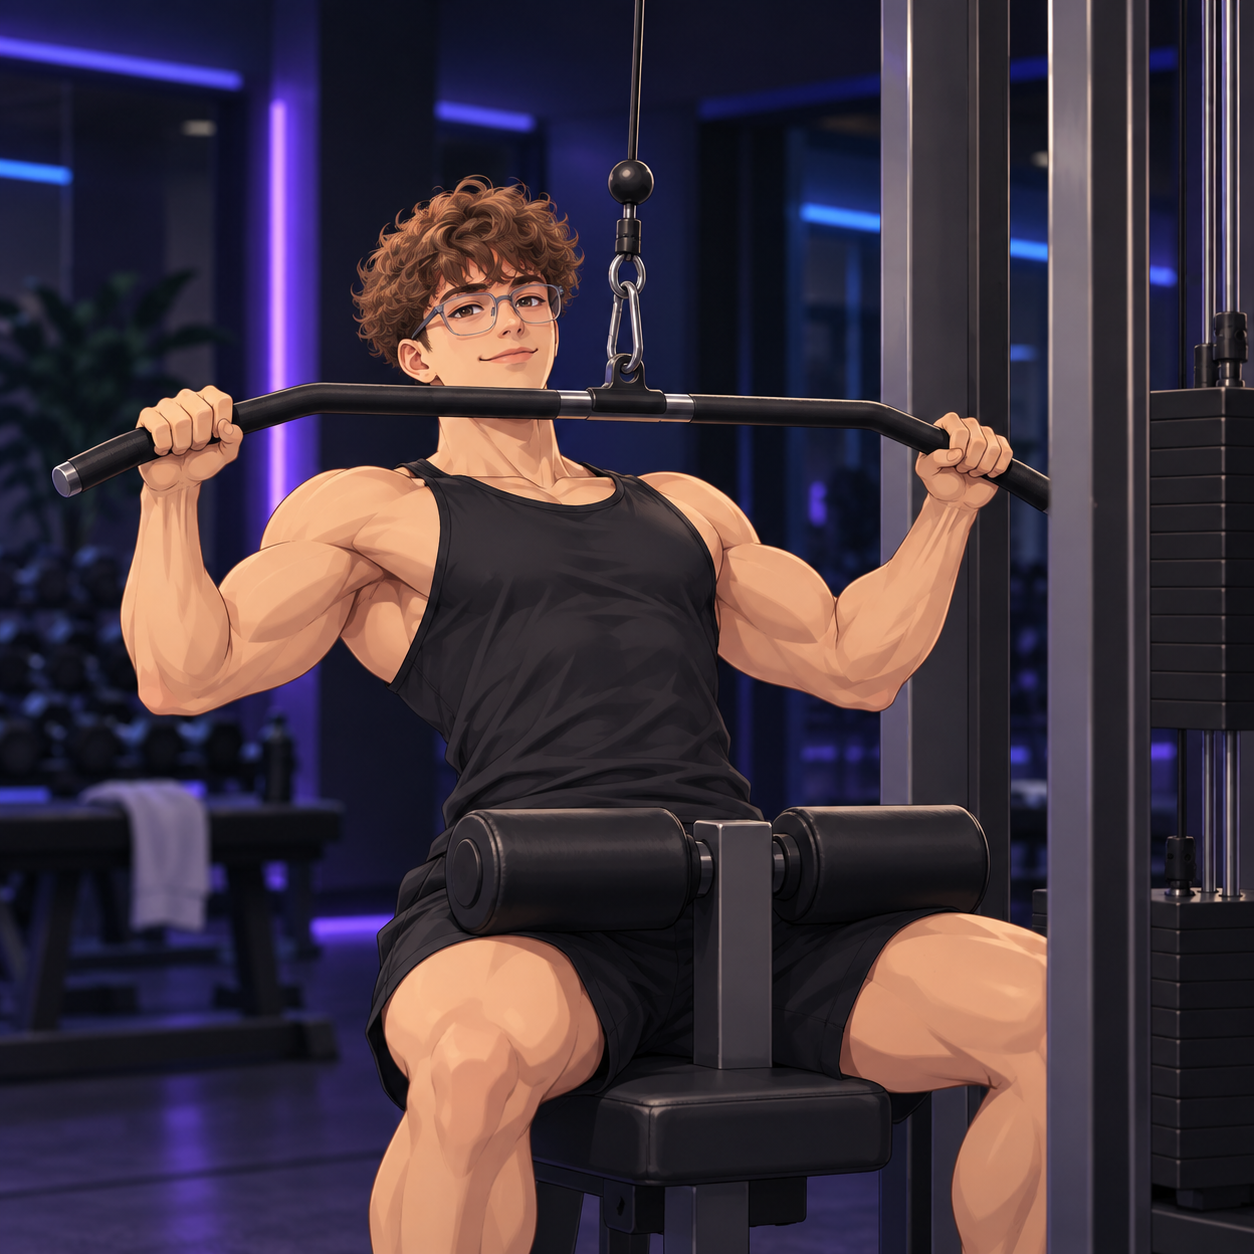
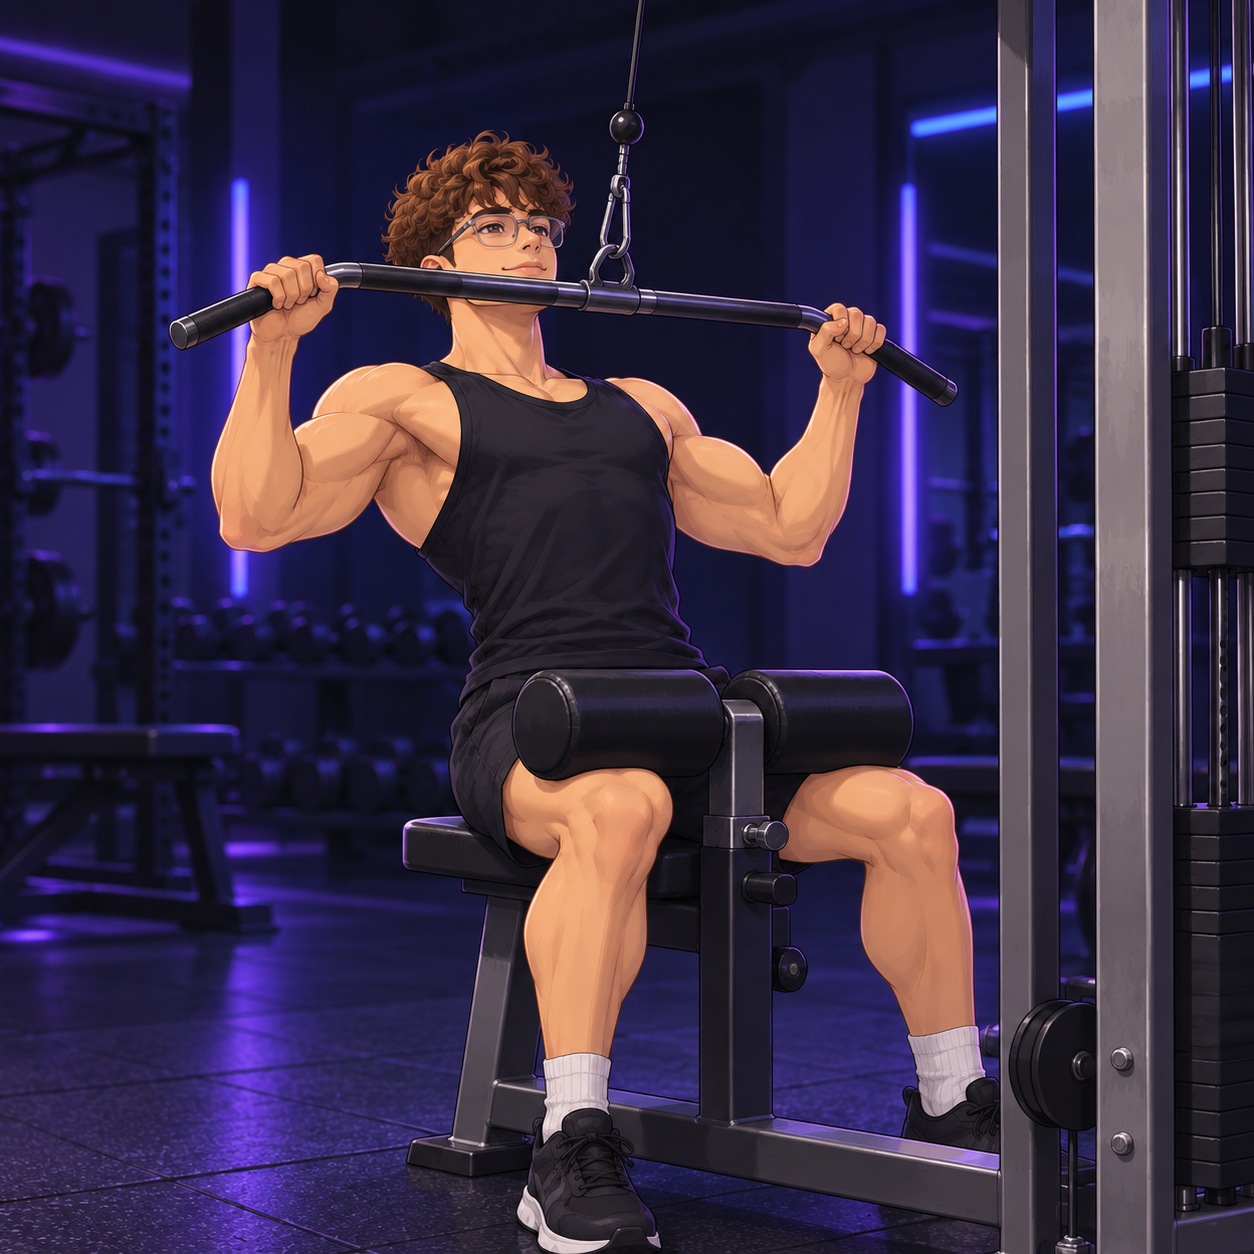
Agregando imagenes para exercises

diff --git a/frontend/src/features/exercises/components/exercise-catalog.tsx b/frontend/src/features/exercises/components/exercise-catalog.tsx
@@ -24,14 +24,37 @@ const exerciseImages: Record<string, string> = {
   "press banca con barra": "/exercises/exercise-press-banca-barra.png",
   "press banca con mancuernas": "/exercises/exercise-press-banca-mancuernas.png",
   "press inclinado con mancuernas": "/exercises/exercise-press-inclinado-mancuernas.png",
+  "aperturas con mancuernas": "/exercises/exercise-aperturas-mancuernas.png",
   "peck deck": "/exercises/exercise-peck-deck.png",
   "flexiones": "/exercises/exercise-flexiones.png",
+  "dominadas": "/exercises/exercise-dominadas.png",
+  "remo con barra": "/exercises/exercise-remo-barra.png",
+  "remo con mancuerna": "/exercises/exercise-remo-mancuerna.png",
+  "remo en polea baja": "/exercises/exercise-remo-polea-baja.png",
+  "press militar con barra": "/exercises/exercise-press-militar-barra.png",
+  "press de hombros con mancuernas": "/exercises/exercise-press-hombros-mancuernas.png",
+  "elevaciones laterales con mancuernas": "/exercises/exercise-elevaciones-laterales-mancuernas.png",
+  "face pull": "/exercises/exercise-face-pull.png",
+  "pike push-up": "/exercises/exercise-pike-push-up.png",
   "fondos en paralelas": "/exercises/exercise-fondos-paralelas.png",
   "curl con mancuernas": "/exercises/exercise-curl-mancuernas.png",
   "curl con barra ez": "/exercises/exercise-curl-barra-ez.png",
   "curl en polea": "/exercises/exercise-curl-polea.png",
+  "curl femoral": "/exercises/exercise-curl-femoral.png",
   "press frances con barra ez": "/exercises/exercise-press-frances-barra-ez.png",
   "sentadilla con barra": "/exercises/exercise-sentadilla-barra.png",
+  "sentadilla goblet": "/exercises/exercise-sentadilla-goblet.png",
+  "sentadilla con peso corporal": "/exercises/exercise-sentadilla-peso-corporal.png",
+  "prensa de piernas": "/exercises/exercise-prensa-piernas.png",
+  "hack squat": "/exercises/exercise-hack-squat.png",
+  "extension de cuadriceps": "/exercises/exercise-extension-cuadriceps.png",
+  "zancadas con mancuernas": "/exercises/exercise-zancadas-mancuernas.png",
+  "peso muerto rumano con barra": "/exercises/exercise-peso-muerto-rumano-barra.png",
+  "hip thrust con barra": "/exercises/exercise-hip-thrust-barra.png",
+  "puente de gluteos": "/exercises/exercise-puente-gluteos.png",
+  "elevacion de gemelos en maquina": "/exercises/exercise-elevacion-gemelos-maquina.png",
+  "elevacion de gemelos de pie": "/exercises/exercise-elevacion-gemelos-pie.png",
+  "plancha": "/exercises/exercise-plancha.png",
   "jalon al pecho": "/exercises/exercise-jalon-pecho.png",
   "extension de triceps en polea": "/exercises/exercise-extension-triceps-polea.png",
   "crunch abdominal": "/exercises/exercise-crunch-abdominal.png",
